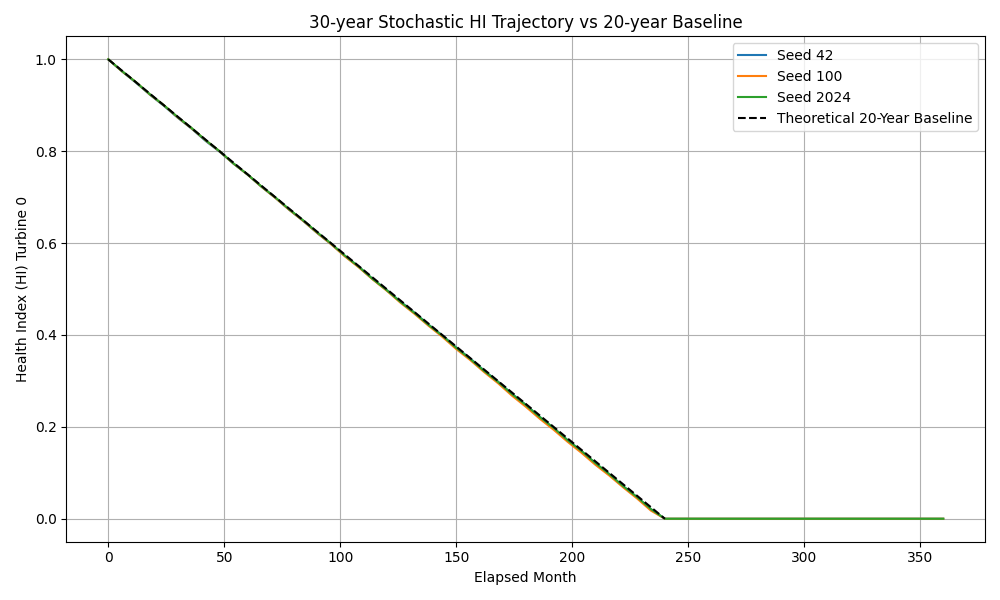
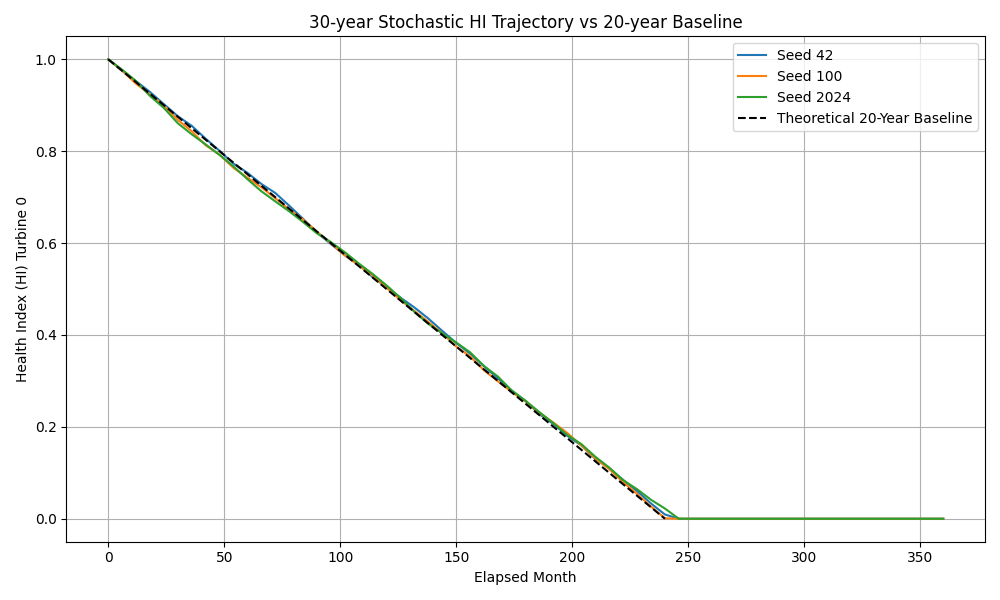
perf: finalize ultra-optimized numpy environment and logging architecture

diff --git a/whisper_env/environment.py b/whisper_env/environment.py
@@ -54,6 +54,9 @@ class OffshoreMaintenanceEnv(gym.Env):
         self.n_turbines = self.spatial_grouping_objective.n_turbines
         self.rng = np.random.default_rng(config.seed)
 
+        self.power_curve_u = np.array([0.0, 3.0, 11.4, 25.0, 30.0], dtype=np.float32)
+        self.power_curve_p = np.array([0.0, 0.0, 5000.0, 5000.0, 0.0], dtype=np.float32)
+
         if self.damage_solver.config.del_flap_ref is None or self.damage_solver.config.del_edge_ref is None:
             self._calibrate_del_refs()
 
@@ -126,15 +129,9 @@ class OffshoreMaintenanceEnv(gym.Env):
         total_samples = samples_per_month * 12
         
         for month in range(1, 13):
-            ambient_u_list = []
-            ambient_wd_list = []
-            for _ in range(samples_per_month):
-                u, wd = self.wind_climate.sample(month=month, rng=self.rng)
-                ambient_u_list.append(u)
-                ambient_wd_list.append(wd)
-                
-            ambient_u_arr = np.array(ambient_u_list)
-            ambient_wd_arr = np.array(ambient_wd_list)
+            ambient_u_arr, ambient_wd_arr = self.wind_climate.sample(
+                month=month, rng=self.rng, size=samples_per_month
+            )
             
             u_eff_base = np.tile(ambient_u_arr, (self.n_turbines, 1)).astype(np.float32)
             ti_eff_base = np.full_like(u_eff_base, 0.10)
@@ -291,7 +288,7 @@ class OffshoreMaintenanceEnv(gym.Env):
 
         u_eff = np.tile([self.ambient_u], (self.n_turbines, 1)).astype(np.float32)
         ti_eff = np.full_like(u_eff, 0.10)
-        power_kw = np.interp(u_eff, [0.0, 3.0, 11.4, 25.0, 30.0], [0.0, 0.0, 5000.0, 5000.0, 0.0])
+        power_kw = np.interp(u_eff, self.power_curve_u, self.power_curve_p)
         power = power_kw / 1000.0
         
         self.u_eff = u_eff[:, -1] if u_eff.ndim > 1 else u_eff
@@ -362,19 +359,11 @@ class OffshoreMaintenanceEnv(gym.Env):
             n_intervals = int(duration_minutes / 10.0)
             n_slices = getattr(self.config, "wind_time_slices_per_month", 30)
 
-            ambient_u_list = []
-            ambient_wd_list = []
-
-            for _ in range(n_slices):
-                ambient_u, ambient_wd = self.wind_climate.sample(
-                    month=self.current_month,
-                    rng=self.rng
-                )
-                ambient_u_list.append(ambient_u)
-                ambient_wd_list.append(ambient_wd)
-
-            ambient_u_arr = np.array(ambient_u_list)
-            ambient_wd_arr = np.array(ambient_wd_list)
+            ambient_u_arr, ambient_wd_arr = self.wind_climate.sample(
+                month=self.current_month,
+                rng=self.rng,
+                size=n_slices
+            )
 
             # We save one arbitrarily to log the state
             self.ambient_u = float(ambient_u_arr[-1])
@@ -382,7 +371,7 @@ class OffshoreMaintenanceEnv(gym.Env):
 
             u_eff = np.tile(ambient_u_arr, (self.n_turbines, 1)).astype(np.float32)
             ti_eff = np.full_like(u_eff, 0.10)
-            power_kw = np.interp(u_eff, [0.0, 3.0, 11.4, 25.0, 30.0], [0.0, 0.0, 5000.0, 5000.0, 0.0])
+            power_kw = np.interp(u_eff, self.power_curve_u, self.power_curve_p)
             power = power_kw / 1000.0  # MW
 
             # Damage rate calculation using float64 to prevent precision loss

diff --git a/whisper_env/models.py b/whisper_env/models.py
@@ -71,17 +71,18 @@ class WindClimate:
                 probability / probability_sum
             )
 
-    def sample(self, month, rng):
+    def sample(self, month, rng, size=None):
         """
         Stochastically samples ambient wind speed and direction for a given month.
 
         Args:
             month (int): The current month (1-12) used to select Weibull parameters.
             rng (np.random.Generator): Random number generator instance.
+            size (Optional[int]): Number of samples to draw. If None, returns scalars.
 
         Returns:
-            tuple[float, float]: A tuple containing the sampled ambient wind speed
-                                 and wind direction.
+            If size is None, returns (float, float) for (wind speed, direction).
+            If size is not None, returns (np.ndarray, np.ndarray) of shape (size,).
         """
 
         # --------------------------------------------------
@@ -92,25 +93,38 @@ class WindClimate:
         k = weibull["k"]
         c = weibull["c"]
 
-        while True:
+        if size is None:
+            while True:
+                ambient_u = c * rng.weibull(k)
+                if 3.0 <= ambient_u <= 25.0:
+                    break
 
-            ambient_u = c * rng.weibull(k)
+            ambient_wd = rng.choice(
+                self.config.wind_direction,
+                p=self.wind_direction_probability,
+            )
 
-            if 3.0 <= ambient_u <= 25.0:
-                break
+            return float(ambient_u), float(ambient_wd)
+        else:
+            ambient_u = np.zeros(size)
+            needed = np.ones(size, dtype=bool)
+            
+            while needed.any():
+                n_needed = needed.sum()
+                u_samples = c * rng.weibull(k, size=n_needed)
+                valid = (u_samples >= 3.0) & (u_samples <= 25.0)
+                
+                valid_indices = np.where(needed)[0][valid]
+                ambient_u[valid_indices] = u_samples[valid]
+                needed[valid_indices] = False
 
-        # --------------------------------------------------
-        # Ambient wind direction
-        # --------------------------------------------------
-        ambient_wd = rng.choice(
-            self.config.wind_direction,
-            p=self.wind_direction_probability,
-        )
+            ambient_wd = rng.choice(
+                self.config.wind_direction,
+                p=self.wind_direction_probability,
+                size=size
+            )
 
-        return (
-            float(ambient_u),
-            float(ambient_wd),
-        )
+            return ambient_u, ambient_wd
 
 @dataclass
 class TransitionResult:

diff --git a/test_env_run.py b/test_env_run.py
@@ -1,0 +1,25 @@
+import sys
+import numpy as np
+
+# Add the current directory to sys.path if needed
+sys.path.append('.')
+
+from whisper_env.environment import OffshoreMaintenanceEnv
+from whisper_env.config import get_default_config
+
+def main():
+    try:
+        config = get_default_config()
+        env = OffshoreMaintenanceEnv(config)
+        env.reset()
+        n_turbines = env.n_turbines
+        action = np.zeros(n_turbines)
+        for _ in range(5):
+            env.step(action)
+        print("Environment successfully ran 5 steps without errors.")
+    except Exception as e:
+        print(f"Error: {e}")
+        sys.exit(1)
+
+if __name__ == "__main__":
+    main()

diff --git a/run_tests.py b/run_tests.py
@@ -1,0 +1,3 @@
+import subprocess
+with open("/Users/andriepasca/Documents/AI-Research-Office/projects/paper-3/research/experiments/whisper-rl/test_output.txt", "w") as f:
+    subprocess.run(["pytest", "tests/"], stdout=f, stderr=subprocess.STDOUT, cwd="/Users/andriepasca/Documents/AI-Research-Office/projects/paper-3/research/experiments/whisper-rl")
